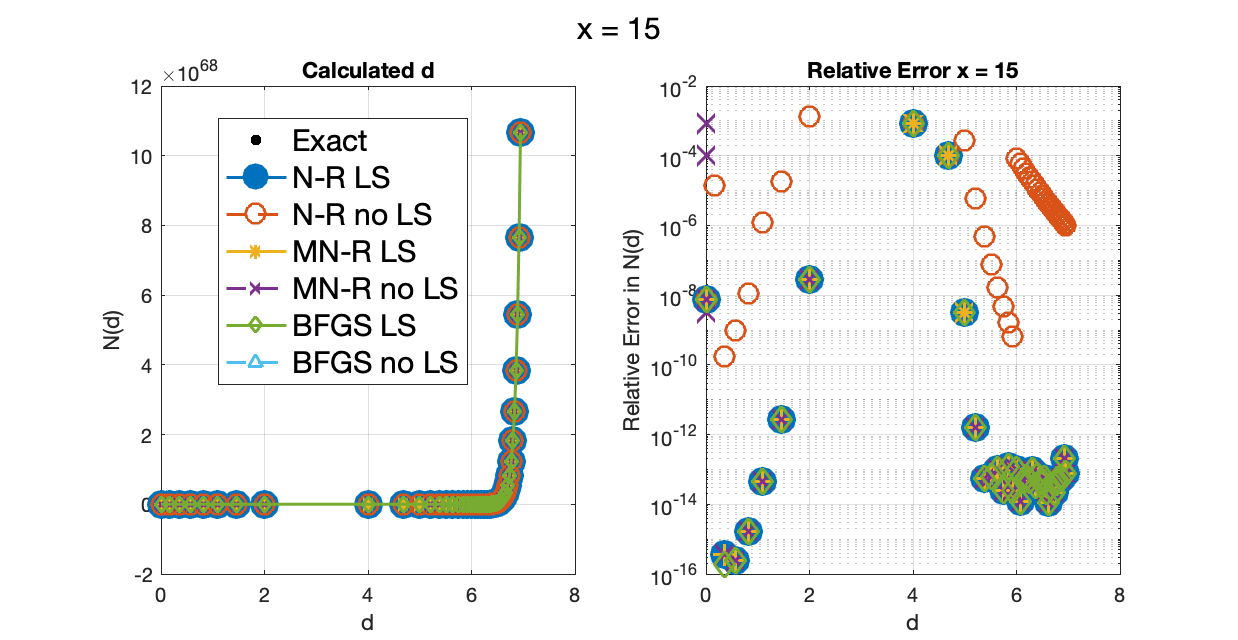
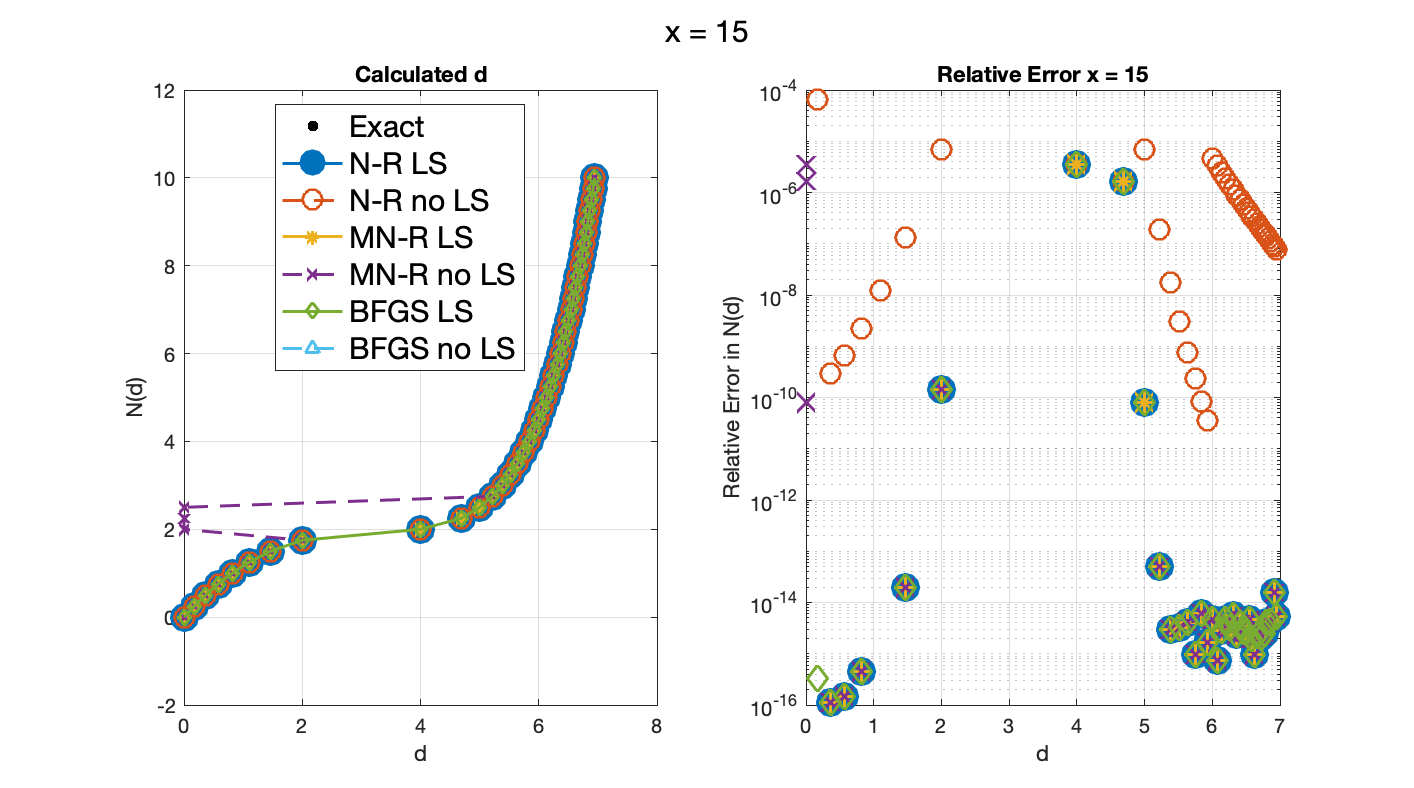
corrected N(d) in code

diff --git a/NonlinearMethodPlotter.m b/NonlinearMethodPlotter.m
@@ -140,8 +140,9 @@ xlabel('F_i')
 
 
     function Nd = NFunc(di)
-        p = [0.5, -5, (x+Fi), -10*Fi];
-        Nd  = polyval(p, di);
+        %p = [0.5, -5, (x+Fi), -10*Fi];
+        %Nd  = polyval(p, di);
+        Nd = x * di./(10 - di) - 0.5 * di.^2;
 
        
 
